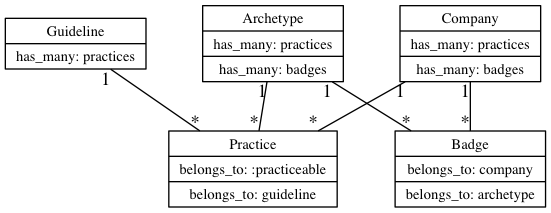
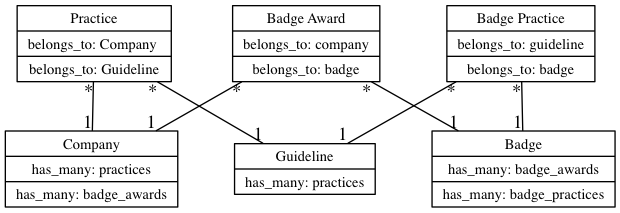
Update schema graph to reflect refactor

diff --git a/attack-plan.md b/attack-plan.md
@@ -1,3 +1,4 @@
+- Merge in refactor
 - Add some tests!!!! (##est 1 day)
   - Model tests: For company/guideline/practice/archetype
     X - creation / empty
@@ -15,52 +16,60 @@ X  - Remove badge name/desc from migration and rerun
 X    - I'm using the archetype fields anyway
 #  - What if there is an archetype with no practices?
 #     - for since only editors can create, will make do
-  - Controller tests:
-    - company
-      - index
-      - new
-      - create
-      - show
-      - edit
-      - update
-      - destroy
-    - guideline
-      - index
-      - new
-      - create
-      - show
-      - edit
-      - update
-      - destroy      
+  - Controller tests (including access levels):
+X    - company
+X      - index
+X      - new
+X      - create
+X      - show (incl practices)
+X      - edit
+X      - update
+X      - destroy
+X    - guideline
+X      - index
+X      - new
+X      - create
+X      - show
+X      - edit
+X      - update
+X      - destroy      
     - practice
-      - create
-      - edit
-      - show
-      - update
-      - destroy      
+X      - create (via comp)
+      - create (via arch)
+      - edit (via comp)
+      - edit (via arch)
+X      - show (via comp)
+      - show (via arch)
+      - update (via comp)
+      - update (via arch)
+      - destroy (via comp)
+      - destroy (via arch)
     - archetype
       - index
-      - show
+      - show (incl practices)
       - edit
       - update
       - destroy
-    - badge (has no controllers)
-    - For company: nested practice creation
-    - For arch: nested practice creation
+    - badge (has no controllers), so no access to:
+      - show
+      - index
+      - edit
+      - delete
+    - Search
+      - params missing (esp practice name/impl)
     - For badge
       - new eligilibity / count
       - remove eiligilibity / count
-    - Search
-      - params missing (esp practice name/impl)
-    - User access to all models
-      - anon / editor / admin
-      - admin creation not allowed (at least on prod)
-    - View button testing
-      - use view tests to validate action buttons
-      - are present only as appropriate (see http://guides.rubyonrails.org/testing.html section 4.8)
+      - via archetype updates
+      - via company updates
+- Make production ready (##est 1 day)
+  - add ToS - IANAL / etc - for information purposes ONLY / starting point not legal advice
+  - proper error handling
+  - add mixpanel / GA
 - Data Entry Phase II (##est 1 day)
-  - will be added to seeds file
   - another few dozen companies
+  - will be added to prod DB
+  - do DB dump / restore (make sure works w minimally new data)
   - refine existing data / review
   - refine badges (definitions / new ones / etc)
 - Update IA / copy (## est 0.5 day)
@@ -71,14 +80,12 @@ X    - I'm using the archetype fields anyway
     - Learn about guidelines / badges
     - Highlight some common searches / most frequent searches?
     - Showcase Good Citizens
-- Make production ready (##est 1 day)
-  - add ToS - IANAL / etc - for information purposes ONLY / starting point not legal advice
-  - proper error handling
-  - add mixpanel / GA
 - Setup polling data (##est 1 day)
   - crawl/save/hash all agreements so we can track changes + alert when info may be out of date
   - probably want to separate download of html from extracting corpus
     - that way the content selector / normalization can always be updated independently
+    - can even get super OCD w the practices per comp and require that they list a 'line number' or range from their parent document where they are defined
+    - then when diffing, I should be able to tell exactly which practices are affected
   - New model: Document
     - URL
     - poll date
@@ -90,8 +97,6 @@ X    - I'm using the archetype fields anyway
   - alerts  / UI changes to denot
   - cost est for this amt of data / traffic
 - Data Entry Phase III (##est 2 days)
-  - will be added to prod DB
-  - do DB dump / restore (make sure works w minimally new data)
   - make sure all document links are specified
   - should have about a hundred companies
   - let run for a week or so to see how data performs
@@ -110,7 +115,6 @@ X    - I'm using the archetype fields anyway
 - Data Entry Phase IV (##est 3 days)
   - big data push - hundreds of sites as goal
   - ideally 1k companies
-  - upgrade search (to elastic search?) so that its good / fast
 - Request Addition / Modification (##est 1 day)
   - form to request a company added to list
   - form to request a modification
@@ -119,6 +123,14 @@ X    - I'm using the archetype fields anyway
 - Add model / list of Articles/Journals where company research is published (##est 1 day)
   - and add weighted impact scores to company
   - maybe different badge for active / impactful research?
+  - probably want to automate this if at all possible
+  - maybe not a bad idea to have list of links for each company where they list their articles
+  - and detect if/when those pages change / have content added
+- Data Entry Phase V - Articles (##est 1 day)
+  - Review any articles for at least a dozen companies
+  - Some have many (23andme / etc)
+  - Probably enter ~ a few hundred articles
+  - Update homepage callout for companies w articles / articles index page
 - Pre-Launch (##est 1/2 day)
   - audit ALL capitalized words to make sure they are used / match whats used in ietf RFCs
   - make sure errors are handled properly
@@ -170,3 +182,7 @@ UX upgrade
   - Studies (esp open enrollment / results / etc)
     - e.g. amiigo's project pulse / other med studies / FDA studies?
   - private research results? blog posts?
+- Testing update
+    - View button testing
+      - use view tests to validate action buttons
+      - are present only as appropriate (see http://guides.rubyonrails.org/testing.html section 4.8)
